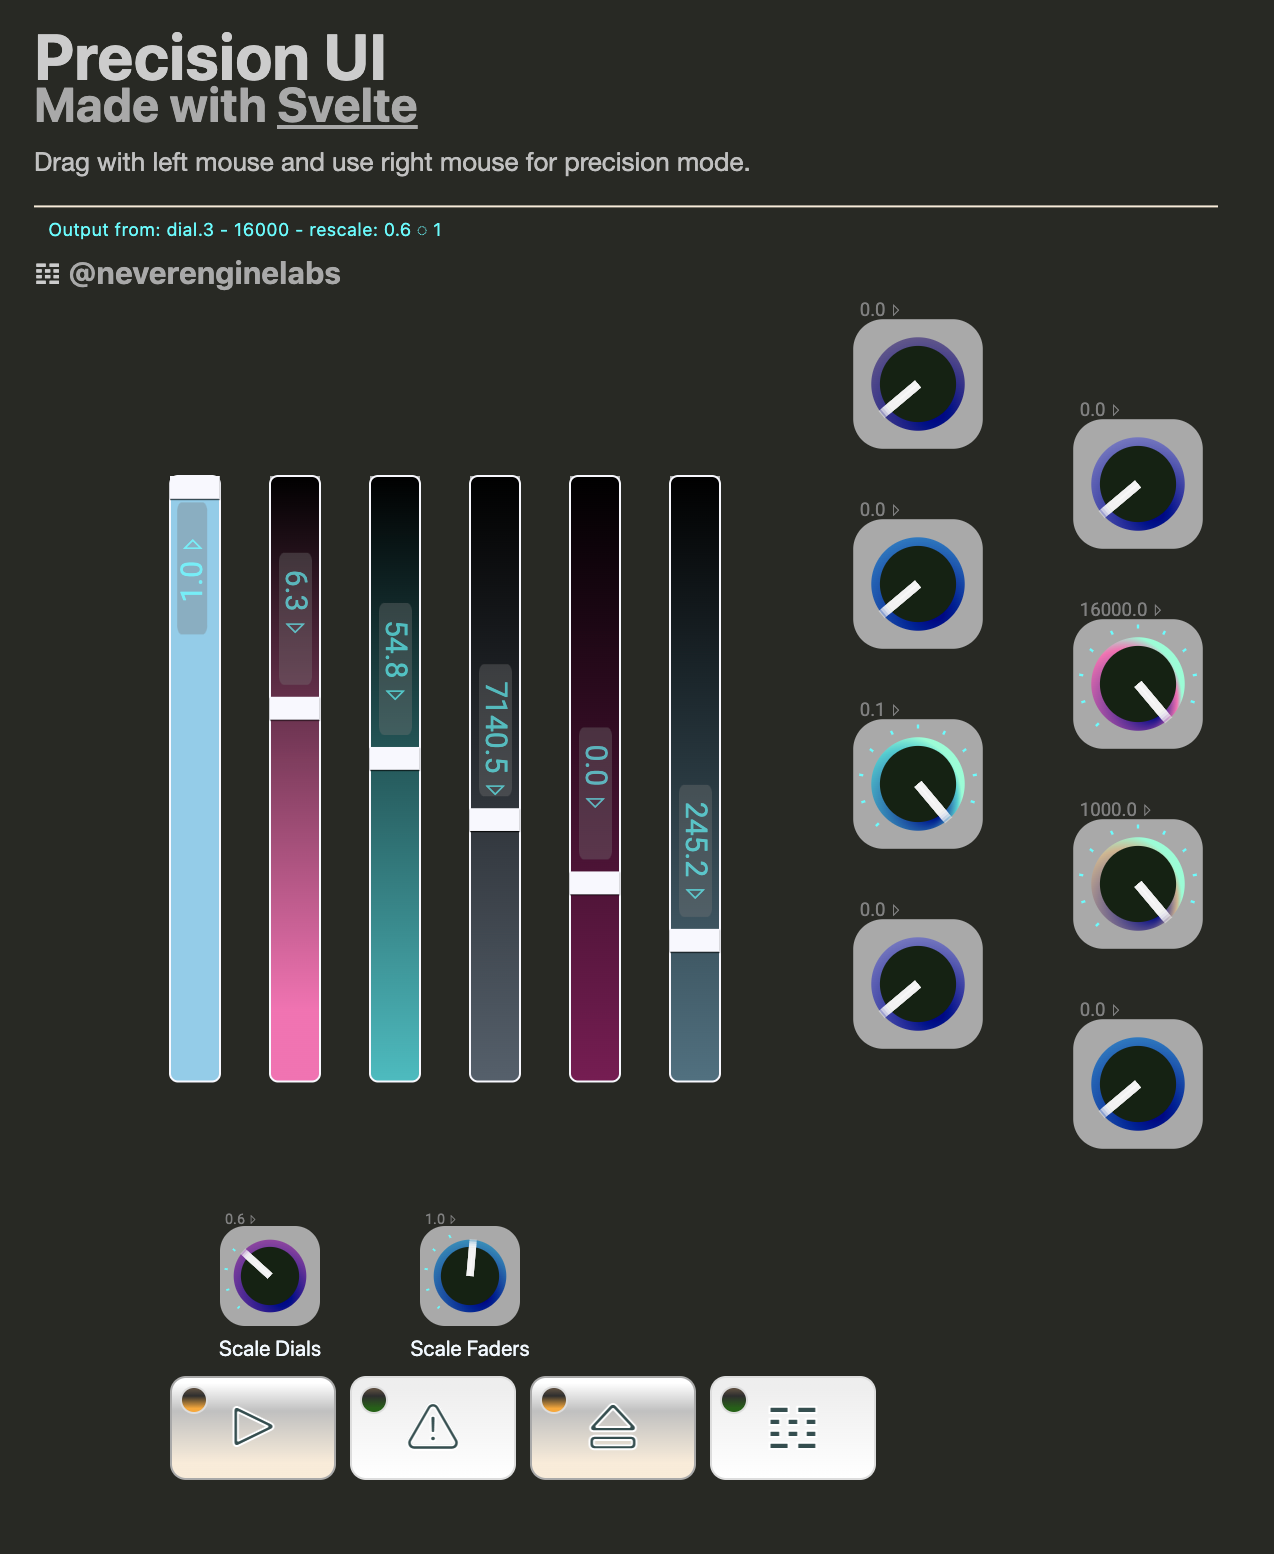
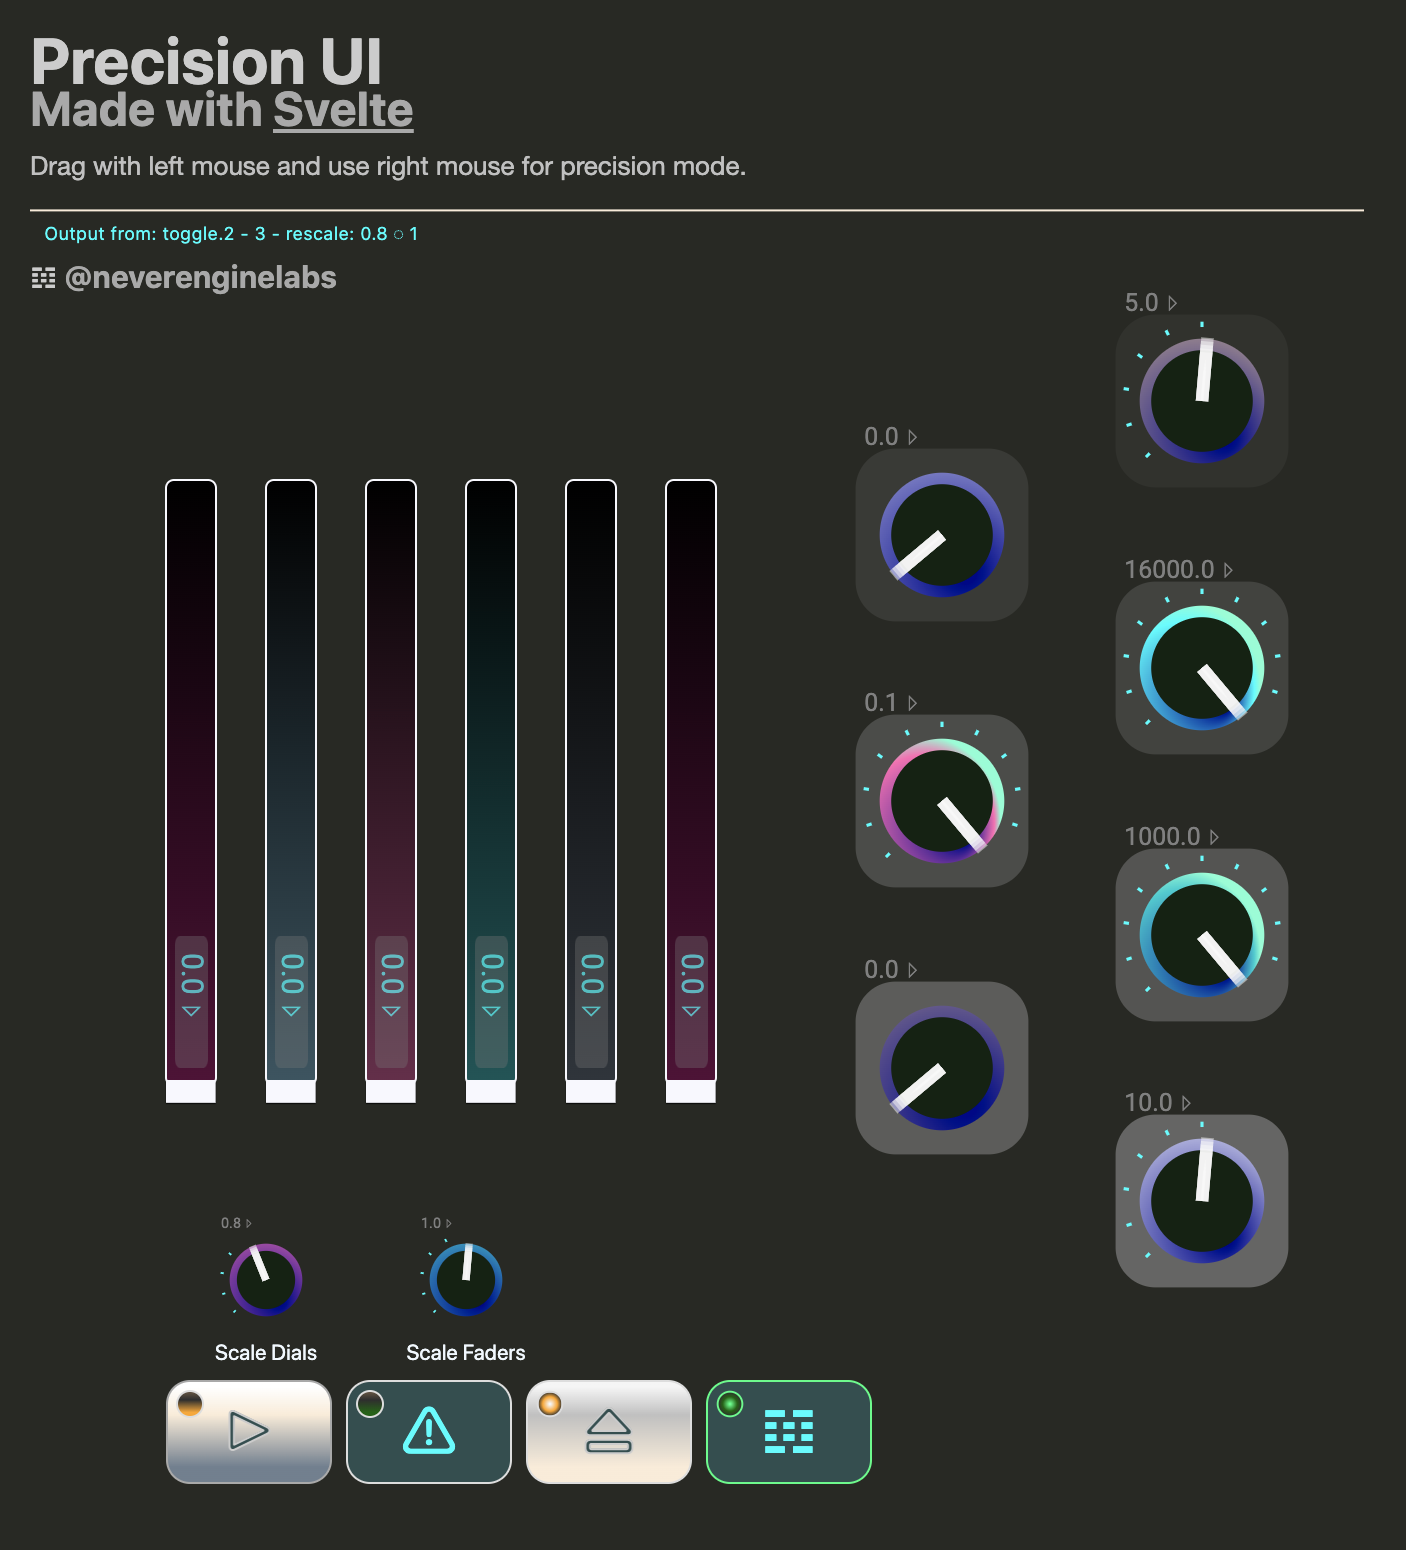
documentation added and a new screenshot

Changed region(s): [[0.0918, 0.1858, 0.949, 0.8361], [0.0, 0.0, 0.949, 0.1858], [0.0918, 0.7742, 0.7041, 0.96]]

diff --git a/src/components/Toggle.svelte b/src/components/Toggle.svelte
@@ -67,7 +67,7 @@
     })
 
     let toggleState: number | boolean = 0;
-    let popup:boolean
+    let toolTip:boolean
     const design = {
         designIndex: ()=>clamp(graphicStyle, [0,1], true),
         trimColour: [ 'coral' , 'green']
@@ -76,31 +76,32 @@
     let toggleDesign:string|undefined =  [ 'toggle-alt', 'toggle' ].at(designIndex())
 
     $:toggleState = toggle.state
-    $:popup = false
+    $:toolTip = false
 
 </script>
-
+<!-- container and functionality -->
 <div class='toggleContainer'
      id='{toggle.id}-container'
-     on:mouseenter={()=>popup = true }
-     on:mouseleave={()=>popup = false }
+     on:mouseenter={()=>toolTip = true }
+     on:mouseleave={()=>toolTip = false }
      on:mousedown|preventDefault={(e)=>{toggle.componentMouseDown(e, toggle)}}
      on:mouseup={()=>(toggle.stateFlags={changing: false, focussed: true, precis: false})}
      style={toggle.containerTransform(toggle, scale)}
 >
+<!-- led and text -->
     <div class={toggleState ? `${toggleDesign} on` : `${toggleDesign}`}>
-        <div class={toggleState ? `${toggleDesign} led on` : `${toggleDesign} led`}>
-        </div>
+        <div class={toggleState ? `${toggleDesign} led on` : `${toggleDesign} led`}></div>
+<!-- button text -->
         <svg dominant-baseline="mathematical" text-anchor="middle">
             <g transform="translate({toggle.width/2} {(toggle.height/2) * 0.8})">
-                <text class="toggle-text"
-                      fill={toggleState ? trimColour.at(designIndex()): 'darkslategray'}
+                <text class={`${toggleDesign} text`}
+                      fill={toggleState ? trimColour.at(designIndex()): ''}
                 >
                     {label}
                 </text>
             </g>
-
-            {#if (popup) }
+<!-- simple tool tip -->
+            {#if (toolTip) }
                 <g transform="translate(0, 60)" in:fade out:fade>
                     <rect  width="{toggle.width}" height="20" fill="antiquewhite" rx="5" />
                     <text textLength="{toggle.width * 0.75}"
@@ -110,7 +111,6 @@
                           font-size="12">{toggle.label} widget {toggle.registryIndex} </text>
                 </g>
             {/if}
-
         </svg>
     </div>
 
@@ -136,14 +136,16 @@
         display: block;
         cursor: pointer;
         border-radius: 0.75em;
-        transition: 150ms ease-in-out;
-        background: linear-gradient(#eee 10%, #fff);
+        transition: 100ms ease-in-out;
+        /*background: linear-gradient(#eee 10%, #aaa);*/
+        background: darkslategray;
         border: 1px solid #ddd
     }
 
     .toggle.on {
-        background: linear-gradient(#fff 10%, #eee);
-        border: 1px solid darkgrey;
+        /*background: linear-gradient(#aaa 10%, #eee);*/
+        background: darkslategray;
+        border: 1px solid springgreen;
     }
 
     .toggle.led {
@@ -163,10 +165,9 @@
     }
 
 
-    .toggle-text {
+    .toggle.text {
         font-size: xx-large;
-        color: darkslategray;
-        stroke: #cccccc;
+        fill: cyan;
     }
 
     .toggle-alt {
@@ -177,13 +178,13 @@
         cursor: pointer;
         border-radius: 0.75em;
         transition: 350ms;
-       background: linear-gradient(white 5%, silver 33%, slategrey 85%);
+       background: linear-gradient(white 5%, antiquewhite 33%, slategrey 85%);
         border: 1px solid darkgrey
     }
 
     .toggle-alt.on {
         border: 1px solid #ddd;
-        background: linear-gradient(whitesmoke 5%, silver 33%, whitesmoke 85%);
+        background: linear-gradient(whitesmoke 5%, silver 33%, antiquewhite 85%);
     }
 
     .toggle-alt.led {
@@ -201,6 +202,12 @@
     .toggle-alt.led.on {
         transform: scale(0.95);
         background: radial-gradient(whitesmoke 5%, orange 45%, #2e2e2e 75%);
+    }
+
+    .toggle-alt.text {
+        font-size: xx-large;
+        fill: darkslategray;
+        stroke: #cccccc;
     }
 
 

diff --git a/src/App.svelte b/src/App.svelte
@@ -89,7 +89,7 @@
 				font-size: xx-small" fill="cyan">
                 Output from: {$touchedID} - {$readout} - rescale: {rescaleDials} ◌ {rescaleFaders}
             </text>
-            <line x1="0.5rem" y1="7.5%" x2="200%" y2="7.5%" stroke='antiqueWhite'/>
+            <line x1="0.5rem" y1="7.5%" x2="225%" y2="7.5%" stroke='antiqueWhite'/>
         </svg>
         <h3>
             𝌺 <a href='https://twitter.com/neverenginelabs'>@neverenginelabs</a>
@@ -108,22 +108,26 @@
         example: rect={{x: posX * rescaleDials, y: posY, width: 100, height: 100}}
 -->
 
-    <div style="transform-origin:center" >
+    <div style="transform: translateY(-14em)" >
     {#each Array(8) as _, i ('key-d-' + i)}
-        {@const posX = 450 + ((i % 2) * 50)}
-        {@const oddEvenSpreadD = rescaleDials * [-1, 1].at(i%2) }
-        {@const posY = (((i / 3) % 8) + 1) * 150}
-        {@const rangeTest = [1, 10, 100, 16000, 0.1, 1000, 50, 20].at(i)}
-        <Radial id="dial.{i}"
-                rect={{  x: posX + (50 * oddEvenSpreadD),
-                         y: posY
-                       }}
-                min=0
-                max={rangeTest}
-                scale={rescaleDials}
-                on:output={handleOutputValue}
-                dialPointer={true}
-        />
+        <!-- aesthetically, skip the first dial -->
+        {#if (i>0)}
+            {@const posX = 450 + ((i % 2) * 50)}
+            {@const oddEvenSpreadD = rescaleDials * [-1, 1].at(i%2) }
+            {@const posY = (((i / 3) % 8) + 1) * 200}
+            {@const rangeTest = [1, 10, 100, 16000, 0.1, 1000, 50, 20].at(i)}
+            <Radial id="dial.{i}"
+                    rect={{  x: posX + (50 * oddEvenSpreadD),
+                             y: posY
+                           }}
+                    min=0
+                    max={rangeTest}
+                    scale={rescaleDials}
+                    on:output={handleOutputValue}
+                    dialPointer={true}
+                    background='rgba(127,127,127,{i * 0.1})'
+            />
+        {/if}
     {/each}
     </div>
 <!-- render some vert faders -->

diff --git a/src/components/Fader.svelte b/src/components/Fader.svelte
@@ -25,6 +25,7 @@
         height:number = Default.FADER_HEIGHT,
         scale:number = Default.FADER_SCALE_FACTOR,
         rx:number = Default.FADER_rX,
+        background = Default.FADER_BACKGROUND,
         id:FaderTag = 'fader.0',
         tickMarks:boolean = true, //todo: Fader tickmarks
         label:string = '',
@@ -55,6 +56,7 @@
         scale,
         taper,
         tickMarks,
+        background
     }
 
     // Construct a new instance of a vertical fader
@@ -98,7 +100,7 @@ in <g>....</g> with an id to help readability or to further reference
 using DOM selectors if needed
 -->
 
-<!-- main wrapper element -->
+<!-- container and functionality -->
 <div class='faderContainer'
      id='{fader.id}-container'
      on:contextmenu|preventDefault={ (e)=>{fader.componentMouseDown(e,fader)} }
@@ -190,7 +192,8 @@ using DOM selectors if needed
                           x=-0.5rem
                           y=-0.5rem />
                     {#if (!fader.precis)}
-                        <g transform="scale( {fader.precis ? 2 : 1} )" out:fade>
+                        <g transform="scale( {fader.precis ? 2 : 1} )"
+                           out:fade >
                             <text id='{id}-readout.Text'
                                   class={'readout ' + (upperBand ? 'flipped' : 'rotated') }>
                                     {roundedReadout}

diff --git a/src/lib/PrecisControllers.ts b/src/lib/PrecisControllers.ts
@@ -24,7 +24,13 @@ import {Default, DEFAULT_RECT} from '../components/Precis-UI-Defaults';
 abstract class PrecisUI {
     static getRegistry():WidgetRegister { return get(WidgetStore) }
 }
-
+/**
+ * __PrecisController__
+ *
+ * Base architecture for a controller.
+ *
+ * Dispatcher, geometry, state flags, label etc
+ */
 abstract class PrecisController extends PrecisUI{
 
     protected dispatch
@@ -142,7 +148,7 @@ abstract class PrecisController extends PrecisUI{
 /**
  * __BasicController__
  *
- * Base controller class implementing widget agnostic methods and state
+ * Base controller class implementing widget agnostic events, value methods, state
  */
 export class BasicController extends PrecisController {
     currentValue: number;
@@ -164,7 +170,7 @@ export class BasicController extends PrecisController {
 
     /**
      * The main value computing functions
-     * Override for buttons and selectors that don't require
+     * Overrides for buttons/selectors that won't require
      * fine value updates
      */
     getMappedValue(): number {

diff --git a/src/components/Radial.svelte b/src/components/Radial.svelte
@@ -14,7 +14,7 @@
     import {onMount} from "svelte";
     import {fade} from 'svelte/transition';
     import {PointerPlotStore, WidgetStore} from '../stores/stores.js'
-    import type {DialTag, Rect, Taper, PointsArray, Point} from '../types/Precis-UI-TypeDeclarations';
+import type {DialTag, Rect, Taper, PointsArray, Point, Tint} from '../types/Precis-UI-TypeDeclarations';
     import {Palette as C} from "../types/Precis-UI-TypeDeclarations";
 
     // ingest props from caller
@@ -63,7 +63,7 @@
         scale,
         taper,
         tickMarks,
-        background: C.dim
+        background
     }
 
     // Construct a new instance of a Radial
@@ -127,7 +127,7 @@ using DOM selectors if needed
 
 -->
 
-<!-- main wrapper element -->
+<!-- container and functionality -->
 <div class='dialContainer'
      id='{dial.id}-container'
      on:contextmenu|preventDefault={ (e)=>{dial.componentMouseDown(e,dial)} }

diff --git a/src/components/Precis-UI-Defaults.ts b/src/components/Precis-UI-Defaults.ts
@@ -24,7 +24,8 @@ export enum Default {
     FADER_HEIGHT = 300,
     FADER_SCALE_FACTOR = 1,
     FADER_rX = 2.75, // layout coefficient
-    SQUARE = 108,
+    FADER_BACKGROUND = 'transparent',
+    SQUARE = 108, // dial square
     DIAL_SCALE_FACTOR = 1,
     DIAL_TICKMARKS_COUNT=11, // best to keep this at 11
     DIAL_TICKMARKS_RADIAL_OFFSET = 135,
